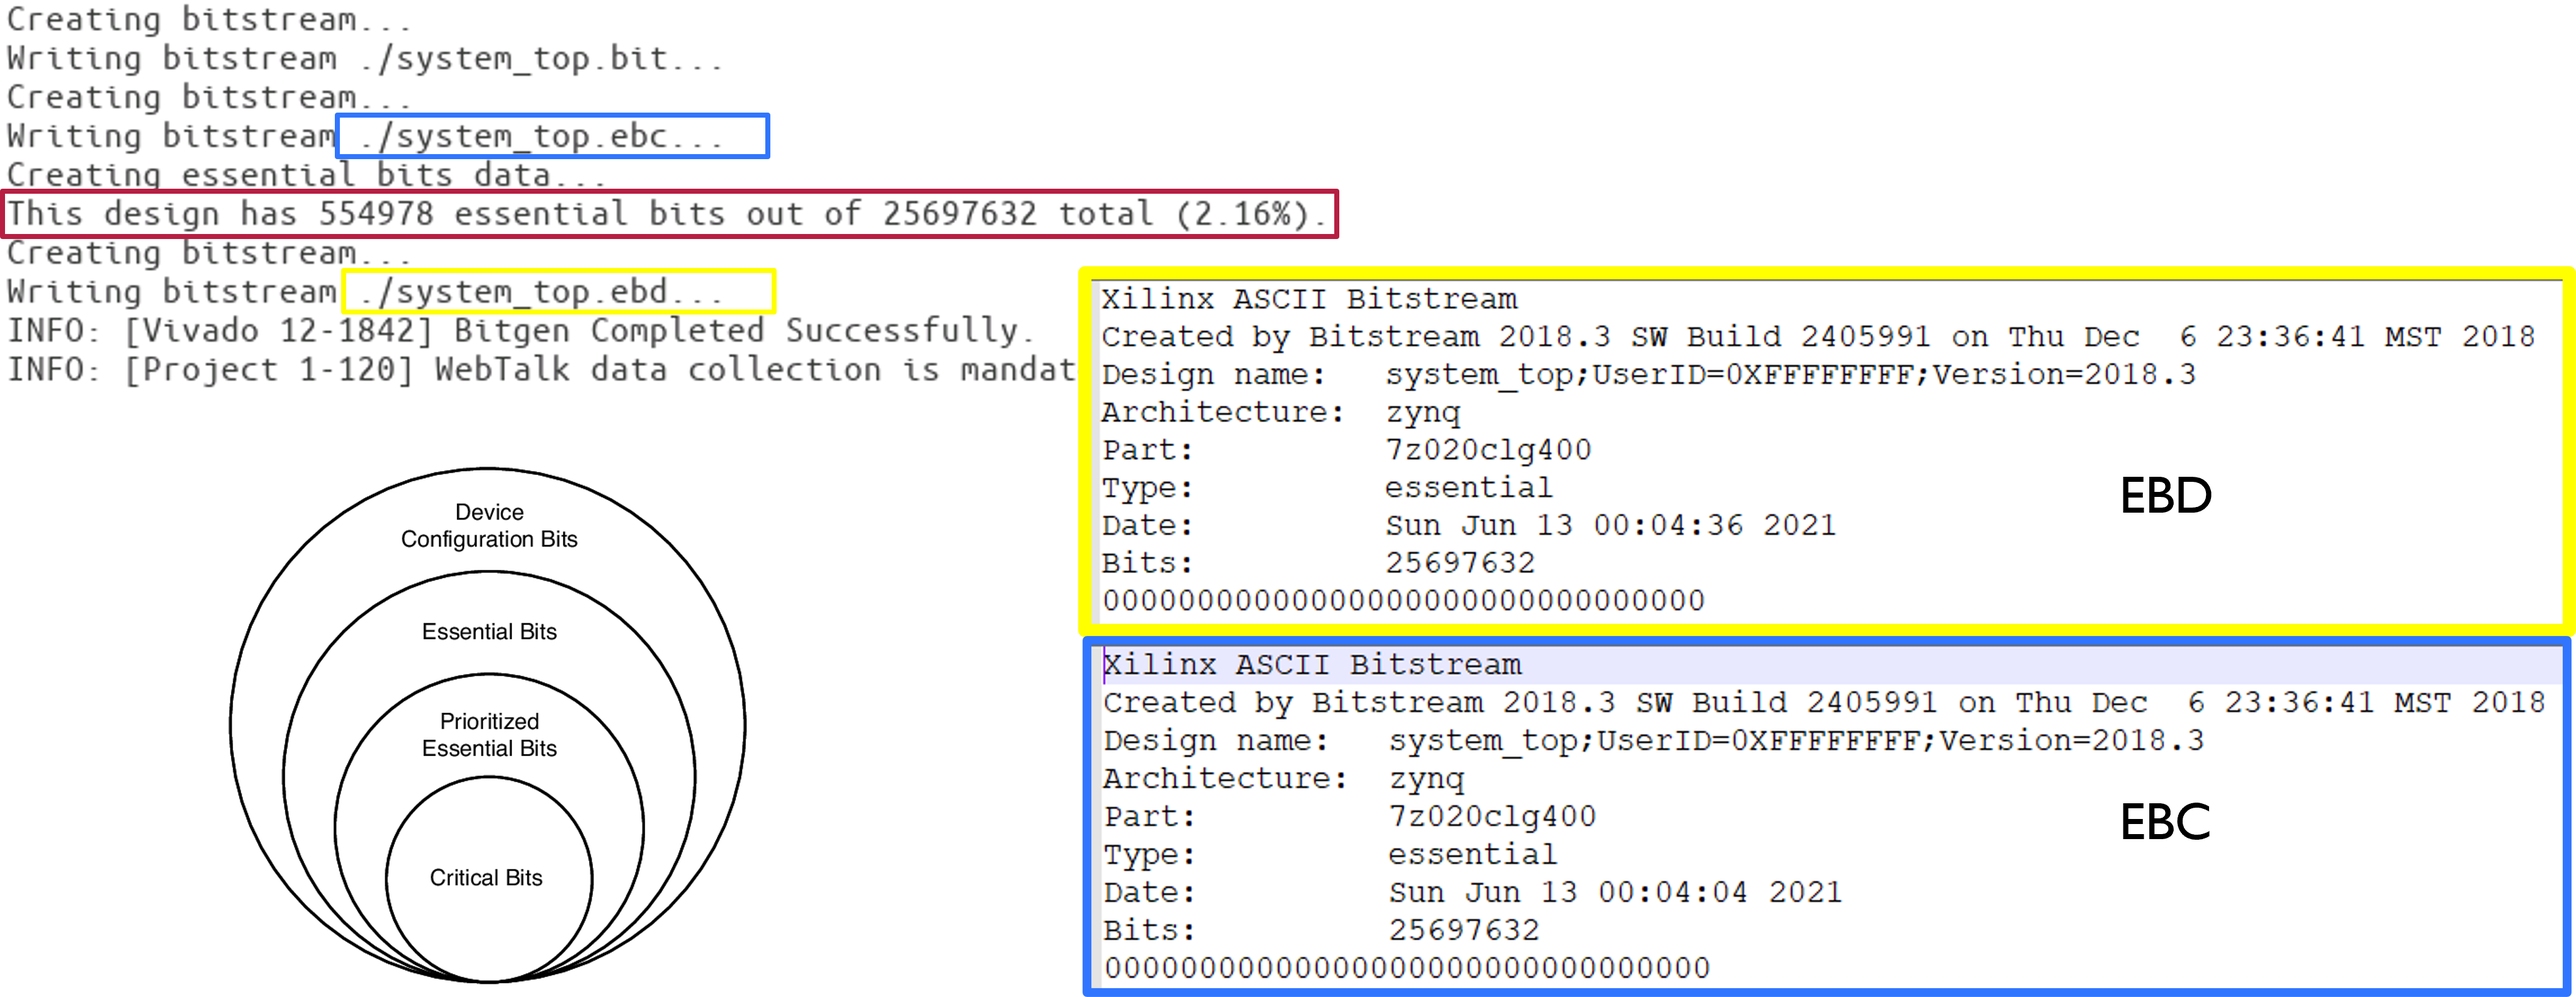
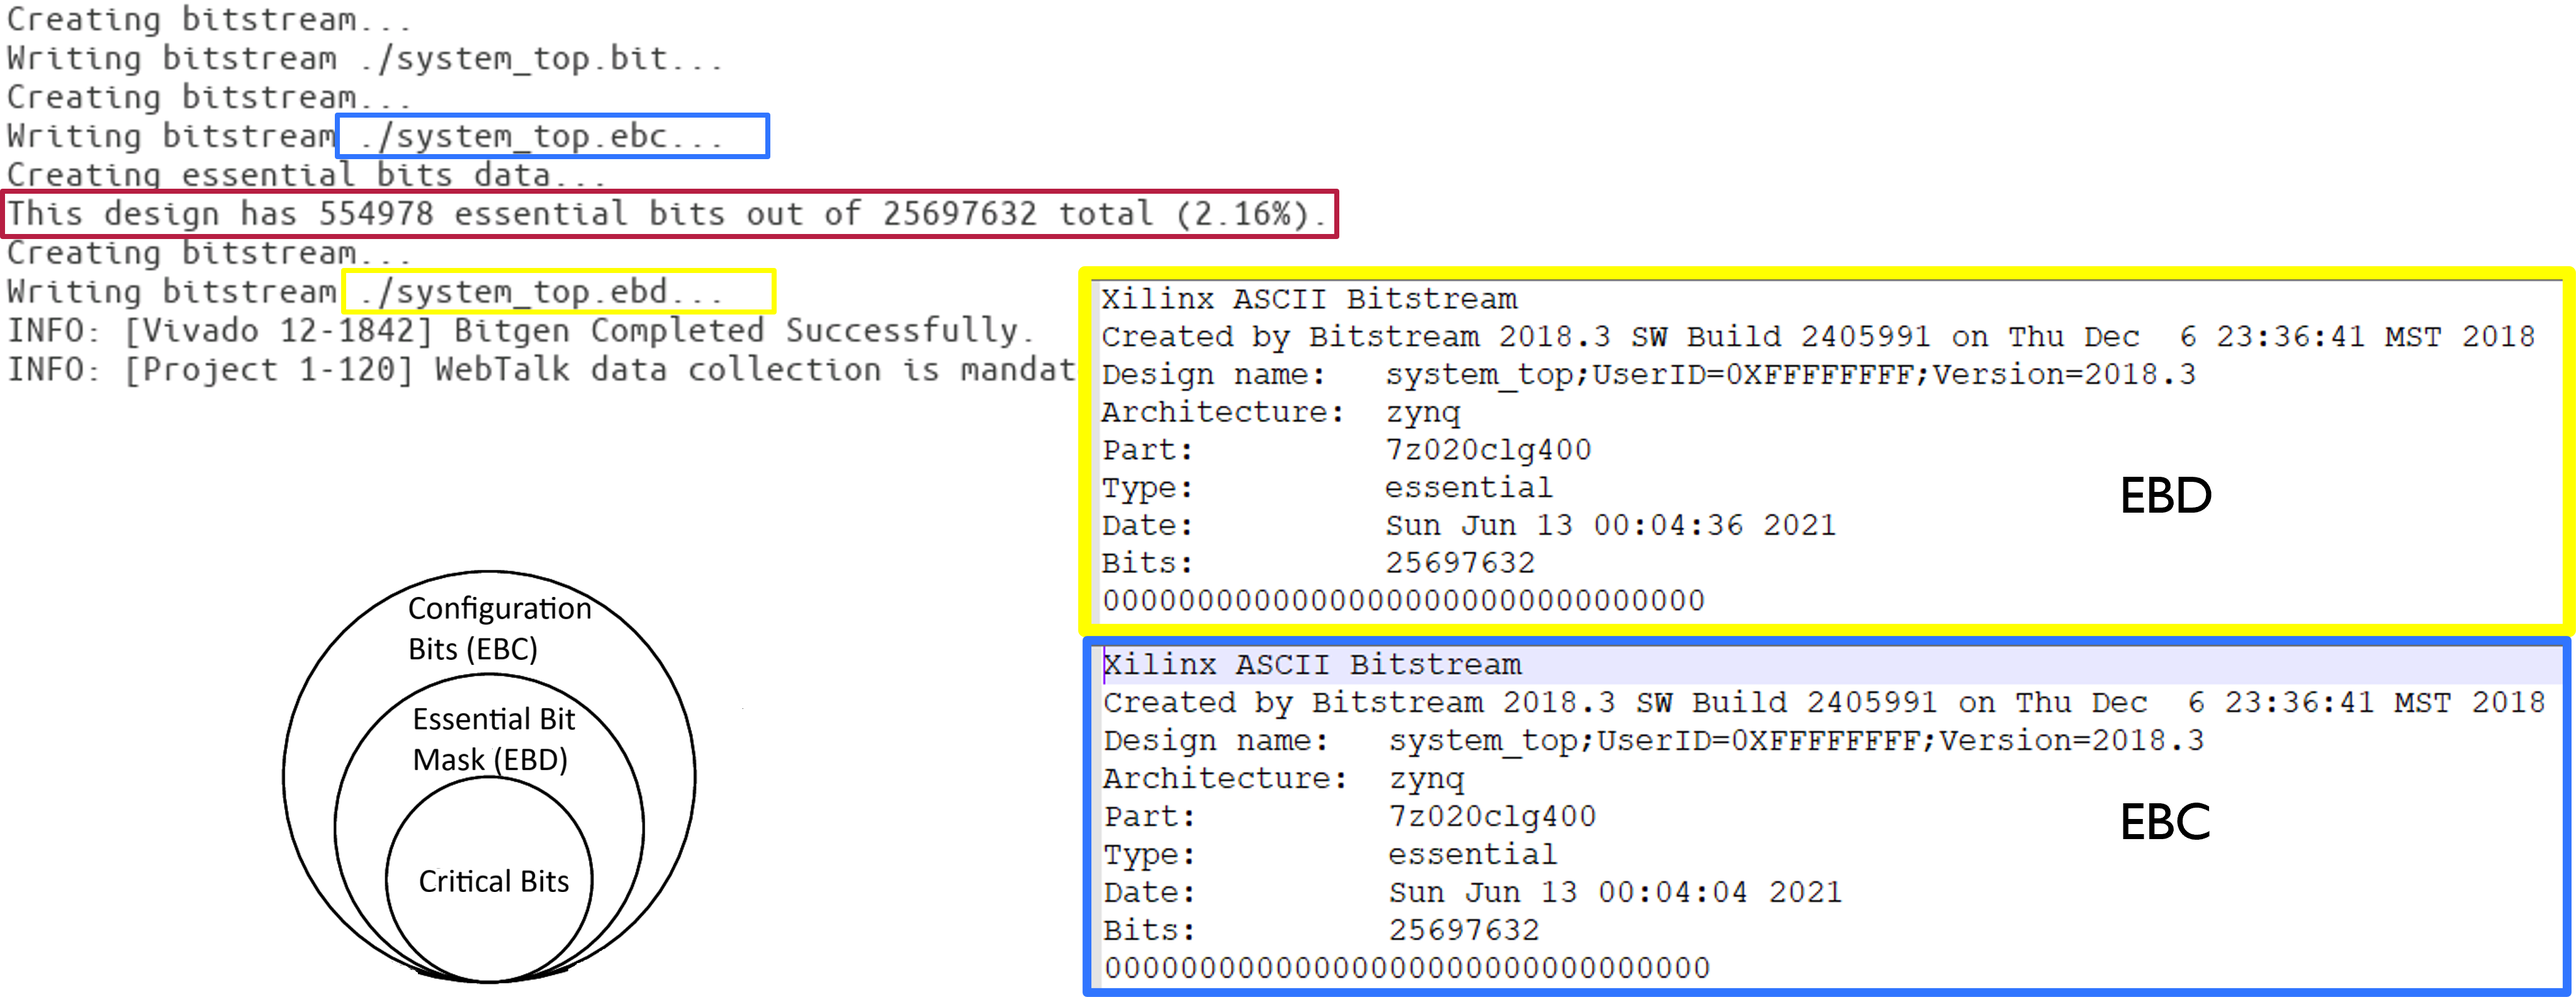
Updates from Overleaf

diff --git a/Cap4/cap4.tex b/Cap4/cap4.tex
@@ -89,7 +89,7 @@ It is possible to communicate with the controller using the AXI Bus of the proce
 
 \subsection{Dynamic Partial Reconfiguration}
 Dynamic partial reconfiguration is performed through the ARM´s \gls{pcap} port.
-The full or partial bitstream could be loaded from an external memory, for example, the ARM processor's \gls{ddr} memory or SD-Card. With the bitstream stored in the \gls{ddr}, the file is transferred to the PL configuration memory using the \gls{pcap} port using \gls{dma}. This setup frees the processor, and the bitstream is directly loadde into the \gls{fpga} \gls{cram} without processing interruption.
+The full or partial bitstream could be loaded from an external memory, for example, the ARM processor's \gls{ddr} memory or SD-Card. With the bitstream stored in the \gls{ddr}, the file is transferred to the PL configuration memory using the \gls{pcap} port using \gls{dma}. This setup frees the processor, and the bitstream is directly loaded into the \gls{fpga} \gls{cram} without processing interruption.
 
 The main idea of the \gls{dpr} region, denoted by the \emph{"HW Accel."} in Figure~\ref{zynq-paper-arch}, is to perform any kind of hardware acceleration needed by the application, being able to reprogram this area accordingly to the need circuit or function needed at that time, giving the system some sort of hardware redundancy in time.
 
@@ -138,15 +138,15 @@ If the processor needs a partial reconfiguration in some area within the fabric,
 
 When using the SEM Controller, this action is not as simple as changing the mux~\cite{Ayer_XAPP517_2011,Xilinx_ICAP_PCAP_2016,Xilinx_XAPP517} configuration. The following actions should take place \cite{ZanoneSaotome2023}:
 \begin{itemize}
-    \item Set \gls{sem} \gls{ip} in IDLE mode.
-    \item Send an SYNC command, stopping the \gls{sem} \gls{ip} frame’s error scanning.
-    \item Select the port \gls{pcap} and perform a dynamic partial reconfiguration.
-    \item After the \gls{dpr} operation is done, transfer the control of \gls{icap} back to SEM IP.
-    \item Perform a soft reset on \gls{sem} \gls{ip}.
-    \item Set \gls{sem} \gls{ip} in \texttt{OBSERVATION} mode.
+    \item Set \gls{semip} in \texttt{IDLE} mode.
+    \item Send an \texttt{SYNC} command to stop the \gls{semip} frame’s error scanning.
+    \item Select the \gls{pcap} port and perform a \gls{dpr}.
+    \item After \gls{dpr} is complete, transfer control of \gls{cram} back to \gls{semip}, through \gls{icap}.
+    \item Perform a soft reset on \gls{semip}.
+    \item Set \gls{semip} to \texttt{OBSERVATION} mode.
 \end{itemize}
 
-Figure~\ref{fig:fpga_mux} shows the interfaces that were developed to decouple the \gls{sem} \gls{ip} from the \gls{icap}, switching the control to \gls{pcap} to perform the partial reconfiguration. The items highlighted in yellow allow steps 2 and 4 of the procedure to be correctly executed.
+Figure~\ref{fig:fpga_mux} shows the interfaces that were developed to decouple \gls{semip} from \gls{icap}, switching the control to \gls{pcap} to perform the partial reconfiguration. The items highlighted in yellow allow steps 2 and 4 of the procedure to be correctly executed.
 
 To stop \gls{sem} \gls{ip} scanning, the controller should be configured in IDLE mode, and a SYNC word command should be sent through the mux to \gls{icap}. This is accomplished using the output of the \texttt{\gls{icap} Sync controller} block that sends the value \texttt{0x5599AA66}.
 
@@ -163,7 +163,7 @@ In this section, the integration of the NMR scheme is detailed. The voter archit
 
 In this work, both \gls{dmr} and \gls{tmr} architectures were implemented and subjected to fault injection experiments to assess their fault-masking behavior and validate the proposed evaluation framework. The fault injection process was used to introduce controlled upsets into the redundant modules, allowing analysis of how each redundancy scheme reacts to injected faults under similar test conditions.
 
-Figure~\ref{fig:fir-dmr} illustrates the proposed architecture used to evaluate the \gls{dmr} design in this study. The design consists of two \glspl{fir} filters and an output voter, implemented to assess the effects of \gls{fi} on the \gls{cram} of the \gls{fpga}.
+Figure~\ref{fig:fir-dmr} illustrates the architecture proposed to evaluate the design \gls{dmr} in this study. The design consists of two \glspl{fir} filters and an output voter, implemented to assess the effects of \gls{fi} on \gls{cram} of \gls{fpga}.
 
 \begin{figure}[H]
     \centering
@@ -172,7 +172,7 @@ Figure~\ref{fig:fir-dmr} illustrates the proposed architecture used to evaluate 
     \label{fig:fir-dmr}
 \end{figure}
 
-Figure~\ref{fig:dut_fir_bird_view} illustrates the implemented design of the \gls{dmr} architecture using the Vivado tool. The \gls{semip} is instantiate together with the wrapper that constitutes of both \gls{fir} filters and the \gls{ps}. 
+Figure~\ref{fig:dut_fir_bird_view} illustrates the design implemented in the \gls{dmr} architecture using the Vivado tool. The \gls{semip} is instantiated together with the wrapper that consists of both, the \gls{fir} filters and the \gls{ps}. 
 
 \begin{figure}[H]
     \centering
@@ -181,12 +181,12 @@ Figure~\ref{fig:dut_fir_bird_view} illustrates the implemented design of the \gl
     \label{fig:dut_fir_bird_view}
 \end{figure}
 
-Figure~\ref{fig:detail_fir} presentes the \gls{dmr} architecture in detail. It is possible to visualize the \gls{rom} with the data to be inputted in the \gls{fir}. The outputs of the designe are checked with the "checker" block and the resullt of the comparsion is sent through serial communication to be evaluated by the \gls{fi} computer.
+Figure~\ref{fig:detail_fir} presents the \gls{dmr} architecture in detail. It is possible to visualize the \gls{rom} with the data to be inputted in \gls{fir}. The design output is checked with the "checker" block and the result of the comparison is sent through serial communication to be evaluated by the \gls{fi} computer.
 
 \begin{figure}[H]
     \centering
     \includegraphics[width=1\linewidth]{Cap4/detail_fir.png}
-    \caption{Block Diagram, in detail, of the \gls{fir} implementation in Vivado. The \acrshort{dmr} is presented and the circuit to detect if the modules has the correct outputs.}
+    \caption{Block Diagram, in detail, of the \gls{fir} implementation in Vivado. The \acrshort{dmr} is presented and the circuit to detect if the modules have the correct outputs.}
     \label{fig:detail_fir}
 \end{figure}
 
@@ -303,7 +303,7 @@ This subsection describes how faults were emulated in the \gls{fpga} to validate
     \label{error-injection-diagram}
 \end{figure}
 
-As illustrated in Figure~\ref{error-injection-diagram}, the mitigation core employed in this study is based on the \gls{semip} and AMD/Xilinx primitives that enable readback and correction of the \gls{fpga}'s configuration memory (\gls{cram}). Since the device includes a \gls{ps}, it is utilized both to configure the bitstream and to serve as the \gls{sw} platform for system control. The \gls{dpr} region is employed to dynamically switch functionality within the \gls{pl}, in this case, between a multiplier and an adder module.
+As illustrated in Figure~\ref{error-injection-diagram}, the mitigation core employed in this study is based on the \gls{semip} and AMD/Xilinx primitives that allow readback and correction of the 'configuration memory of \gls{fpga} (\gls{cram}). Since the device includes a \gls{ps}, it is utilized both to configure the bitstream and to serve as the \gls{sw} platform for system control. The \gls{dpr} region is employed to dynamically switch functionality within the \gls{pl}, in this case, between a multiplier and an adder module.
 
 As explained in Section~\ref{sec:cap3}, the configuration memory is distributed throughout the \gls{fpga}, defining the functionality of its internal resources, including the \glspl{clb}, \glspl{bram}, \glspl{dsp}, and routing interconnections. This memory is organized into frames arranged in rows and columns corresponding to specific configurable resources, with multiple frames per column forming clock regions within the device. To perform \gls{fi}, it is necessary to identify and extract the frame addresses, along with the words and bits within those frames, that correspond to the \gls{dut} \cite{Garcia2020}.
 
@@ -316,7 +316,13 @@ set_property BITSTREAM.SEU.ESSENTIALBITS YES [current_design]
     \end{verbatim}
 \end{itemize}
 
-The mapping between the \gls{ebd} file and the configuration memory enables the identification of configuration bits that are essential for the implemented design. This mapping provides a practical foundation for correlating the logical elements defined during synthesis with their physical representation in the \gls{fpga} configuration frames, thereby allowing precise targeting of configuration bits during \gls{fi} experiments.
+The mapping between the \gls{ebd} file and the configuration memory enables the identification of configuration bits that are essential for the implemented design. This mapping provides a practical foundation for correlating the logical elements defined during synthesis with their physical representation in the configuration frames \gls{fpga}, thereby allowing for precise targeting of the configuration bits during \gls{fi} experiments.
+
+The \textbf{\acrfull{ebc}} file contains the reference data of all configuration memory cells of the FPGA. It represents the actual content that the \gls{semip} controller would read during a \gls{seu} read back operation. It is important to emphasize that the \gls{ebc} file is \textbf{not} the FPGA programming bitstream, but a representation of the configuration data after implementation.
+
+The \textbf{\acrfull{ebd}} file acts as a mask for the EBC file, identifying which bits are considered \textit{essential} to the correct operation of the implemented design. Each bit with a value of ‘1’ in the \gls{ebd} file indicates that the corresponding bit in the \gls{ebc} file is essential or potentially critical to the functionality of the system.
+
+In summary, essential bits can potentially cause an error in \gls{dut} when corrupted. To determine which essential bits are actually capable of producing a malfunction, fault injection experiments are performed. The subset of essential bits that, when flipped, result in erroneous behavior of the system are defined as \textit{critical bits}. This is illustrated in Figure~\ref{fig:xilinx-ebd-ebc}, with examples of each file and the number of essential bits.
 
 \begin{figure}
     \centering
@@ -325,7 +331,7 @@ The mapping between the \gls{ebd} file and the configuration memory enables the 
     \label{fig:xilinx-ebd-ebc}
 \end{figure}
 
-As illustrated  in Figure~\ref{fig:xilinx-ebd-ebc},
+Simulation-based \gls{fi} provides high controllability and low cost, as no physical device is required. However, it suffers from long simulation times, particularly for complex systems, and may fail to capture intricate faulty behaviors, especially when performed at high levels of abstraction. When the objective is to evaluate the effects of faults in the \gls{fpga} bitstream, the use of an actual device becomes essential~\textcite{NazarCarro_DFT_FastSingleFPGA, Antoni2003}. In this context, this research employs \gls{cram} \gls{fi} through \gls{semip} to test the effects of bit-flips directly in the \gls{cram} of the \gls{fpga}.
 
 \section{Verification and Validation Methodology}
 The testing strategy is presented to demonstrate how the design was verified at the simulation level, the emulation level, and on physical \gls{fpga} hardware. Metrics such as fault coverage, error latency, and resource usage were systematically measured to evaluate the effectiveness of the proposed solution.

diff --git a/Cap5/cap5.tex b/Cap5/cap5.tex
@@ -119,8 +119,6 @@ The idea of using \gls{fir} filters is because they are pure mathematical module
     \label{fig:fir_filter_error}
 \end{figure}
 
-Simulation-based fault injection provides high controllability and low cost, as no actual device is required. It suffers, however, from long simulation times, especially for complex systems [7][8]. It may also fail to identify complex faulty behaviors, especially when simulations are done at high abstraction levels. When the goal is to evaluate the effects of faults in the \gls{fpga} bitstream, the use of an actual device is near mandatory. The effects of configurations unforeseen by manufacturers and the lack of low level schematics available to the end user make it almost infeasible to perform accurate simulation-based fault injection for this case. \textcite{NazarCarro_DFT_FastSingleFPGA,Antoni2003}
-
 The proposed injection system also presents some limitations when compared to other approaches. Running at about 0.2 s per injection in a single test-board environment (fully parallel execution is possible by adding more boards), it is slower than non fine-grain software simulators, such as GEM5 [32], virtual platforms like SOFIA [34] and, potentially, RTL-modified based testing [22] on \gls{fpga}. However, equivalent state-of-the-art fine-grain software RTL simulators run at as low as 1 KHz on modern CPUs [49,50] making simulation at this granularity much slower than the proposed one \cite{Leon2024_VeeR_EH1_SEU}.
 
 \begin{table}[H]

diff --git a/tese.tex b/tese.tex
@@ -154,7 +154,9 @@
 
 \examiner{Prof. Dr.}{Marcus Henrique Victor Junior}{President}{ITA}
 \examiner{Prof. Dr.}{André da Fontoura Ponchet}{Internal Member}{ITA}
+\examiner{Prof. Dr.}{Harlei Miguel de Arruda Leite}{Internal Member}{ITA}
 \examiner{Prof. Dr.}{Ricardo Pires}{External Member}{IFSP}
+\examiner{Prof. Dr.}{Euclides Lourenço Chuma}{External Member}{UNICAMP}
 
 % Data da defesa (mês em maiúsculo, se trabalho em inglês, e minúsculo se trabalho em português)
 \date{25}{NOV}{2025}

diff --git a/Cap2/cap2.tex b/Cap2/cap2.tex
@@ -81,7 +81,7 @@ This section consolidates previous research in the field of \gls{fpga} reliabili
 
 %%%============== Long Comparison Table =========================================================================
 
-\begin{longtable}{|p{3cm}|p{2.5cm}|p{3cm}|p{3cm}|p{3cm}|}
+\begin{longtable}{p{3cm}|p{2.5cm}|p{3cm}|p{3cm}|p{3cm}}
 \caption{Comparison of \acrshort{fpga} fault-tolerance approaches in related works.} \label{tab:related_works} \\
 \hline
 \textbf{Reference / Approach} 
